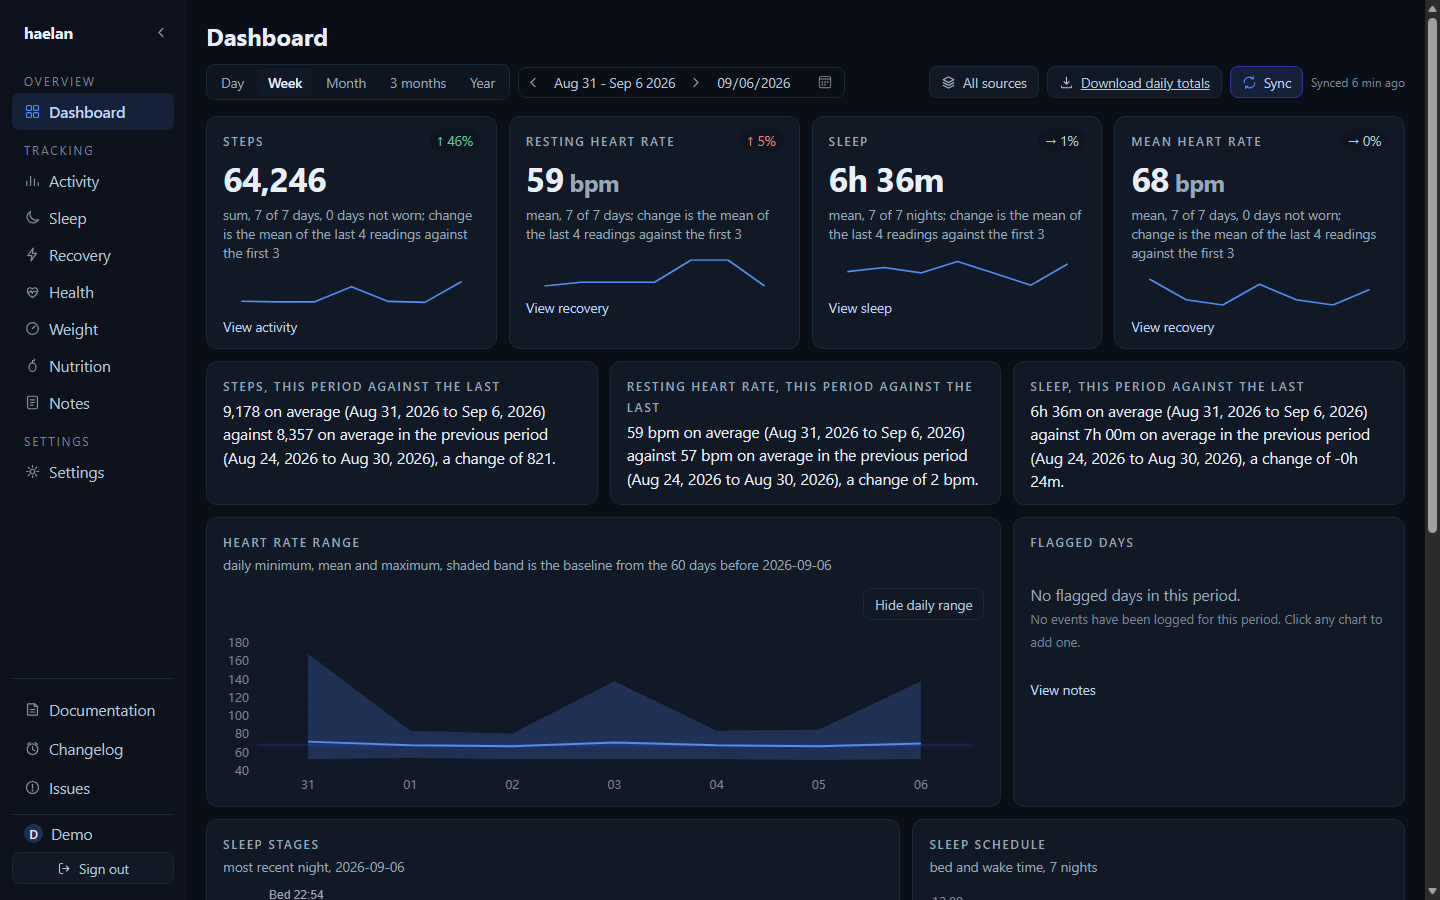
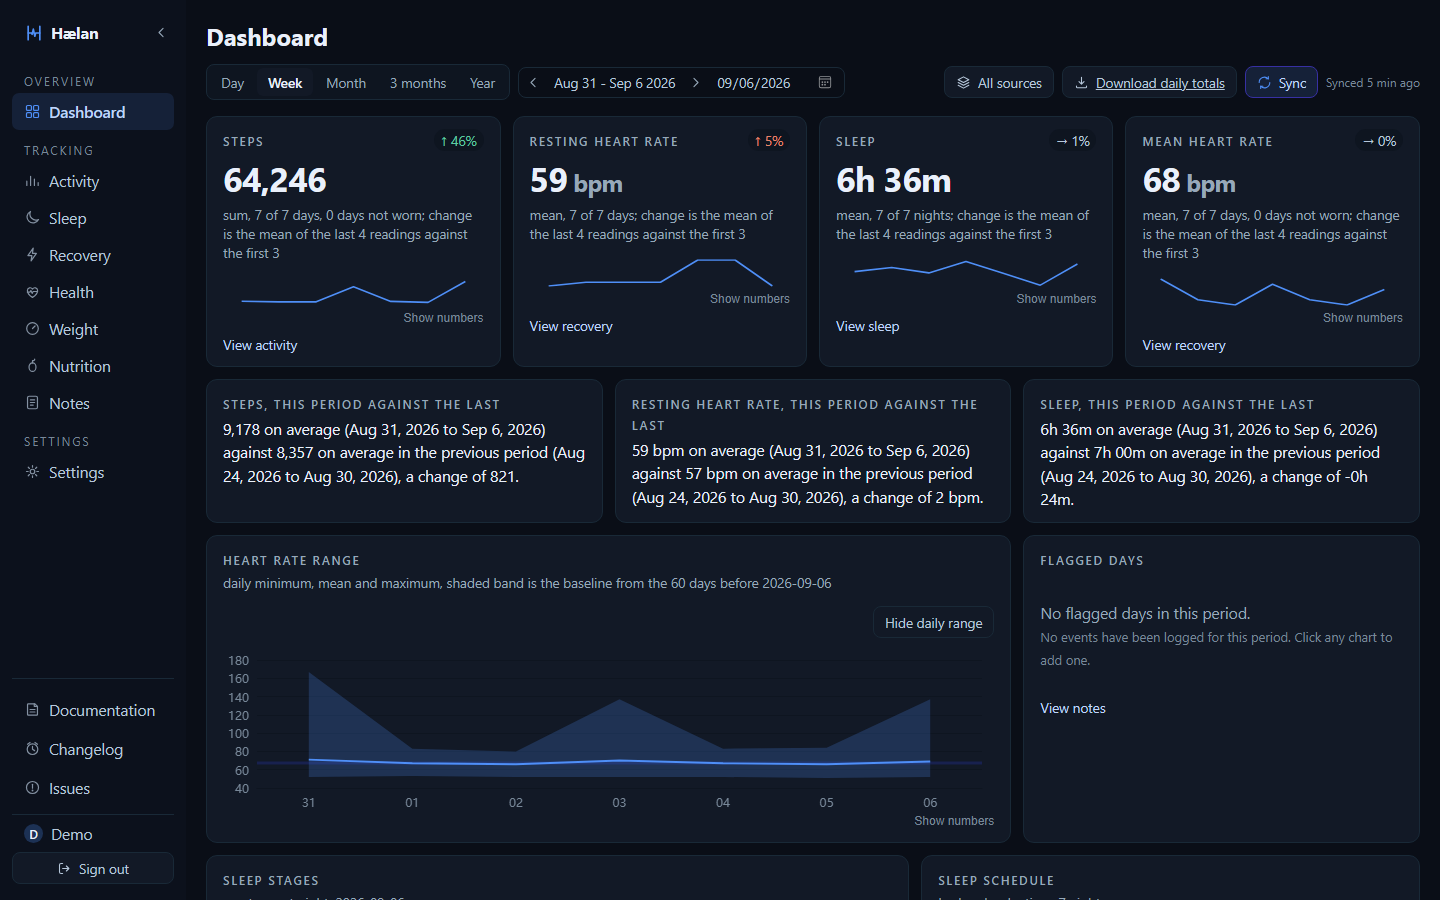
docs: retake the screenshots, and add the Activity page to them (#190)
The committed images predate three changes that are visible in every one of
them: the table toggle under each chart (1.9.0), the wordmark and mark now
worn in the rail (1.11.0), and the labelled bar charts on Activity (1.15.0).

Retaken from a fresh seed against current HEAD. Dashboard, Sleep and Recovery
keep their framing on the week ending 2026-09-06, so they compare directly
against the ones they replace: the steps, resting heart rate, sleep and mean
heart rate figures are identical to the previous dashboard.png, which is the
fixed seed doing what it exists to do.

Activity is new to the set and is framed on August 2026 rather than that week.
Its two bar charts thin their date labels by the point count, so a week shows
seven bars with every date drawn and says nothing about the behaviour a month
does. It is also the only page whose chart nobody had seen rendered before
this: the axes read as designed, 01 06 11 16 21 26 31 across 31 days, both
value axes anchored at zero, and floors labelled 0 3 6 9 12 15 18 with no
repeats.

Also ignores demo-data/. The glob above it, .local-*/, carries a comment
saying it covers "the ones scripts/seed-demo.mjs exists to create", and it
does not cover the one the README itself instructs every reader to create:
"Try it without a Google account" runs `seed-demo.mjs ./demo-data`, which is
not dot-prefixed. Found by a `git add -A` that staged demo-data/instance.key
while updating these very screenshots.

diff --git a/README.md b/README.md
@@ -41,9 +41,10 @@ catching them is a standing part of how the project is built rather than a past 
 
 ![The Dashboard](assets/screenshots/dashboard.png)
 
-![Sleep](assets/screenshots/sleep.png)
+![Activity](assets/screenshots/activity.png)
 
-<sub>Dashboard, Sleep, and [Recovery](assets/screenshots/recovery.png). All three are the demo data
+<sub>Dashboard and Activity above; [Sleep](assets/screenshots/sleep.png) and
+[Recovery](assets/screenshots/recovery.png) as well. All four are the demo data
 `scripts/seed-demo.mjs` generates, not anybody's real health history.</sub>
 
 ## What it does
@@ -226,10 +227,12 @@ HAELAN_DATA_DIR=./demo-data pnpm start
 Sign in as `demo` with the password `demodemo`. That password is printed by the script and
 written down here on purpose: it is correct for a throwaway directory and wrong for anything else,
 and the script refuses to run against a directory that already holds a database. The data comes
-from a fixed seed, so the data behind the screenshots above regenerates identically. The images
-themselves were taken on the week ending 2026-09-06, which is where the demo's data ends; a fresh
-boot opens on the current month instead, and you would have to walk back to that week to frame the
-same pictures.
+from a fixed seed, so the data behind the screenshots above regenerates identically. Dashboard,
+Sleep and Recovery were taken on the week ending 2026-09-06, which is where the demo's data ends;
+Activity was taken on August 2026, because a month is where its bar charts thin their date labels
+and a week is not. A fresh boot opens on the current month instead, so you would have to walk back
+to frame the same pictures. The range and the day both live in the URL, which is the quickest way
+back: `?range=week&on=2026-09-06`.
 
 ## Backups, and restoring one
 
